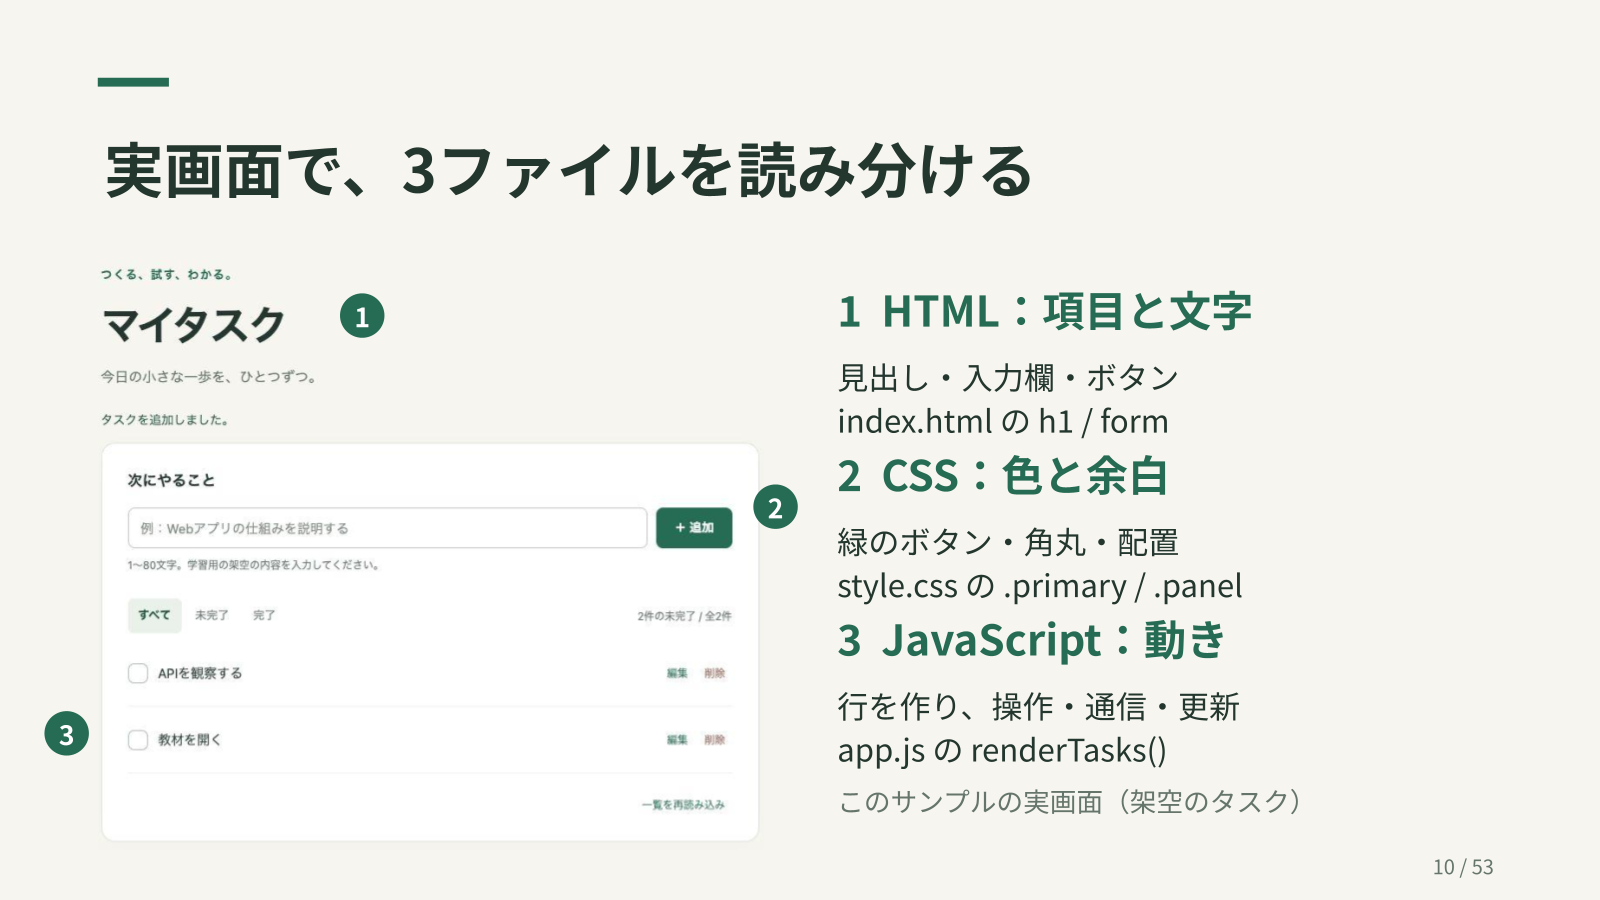
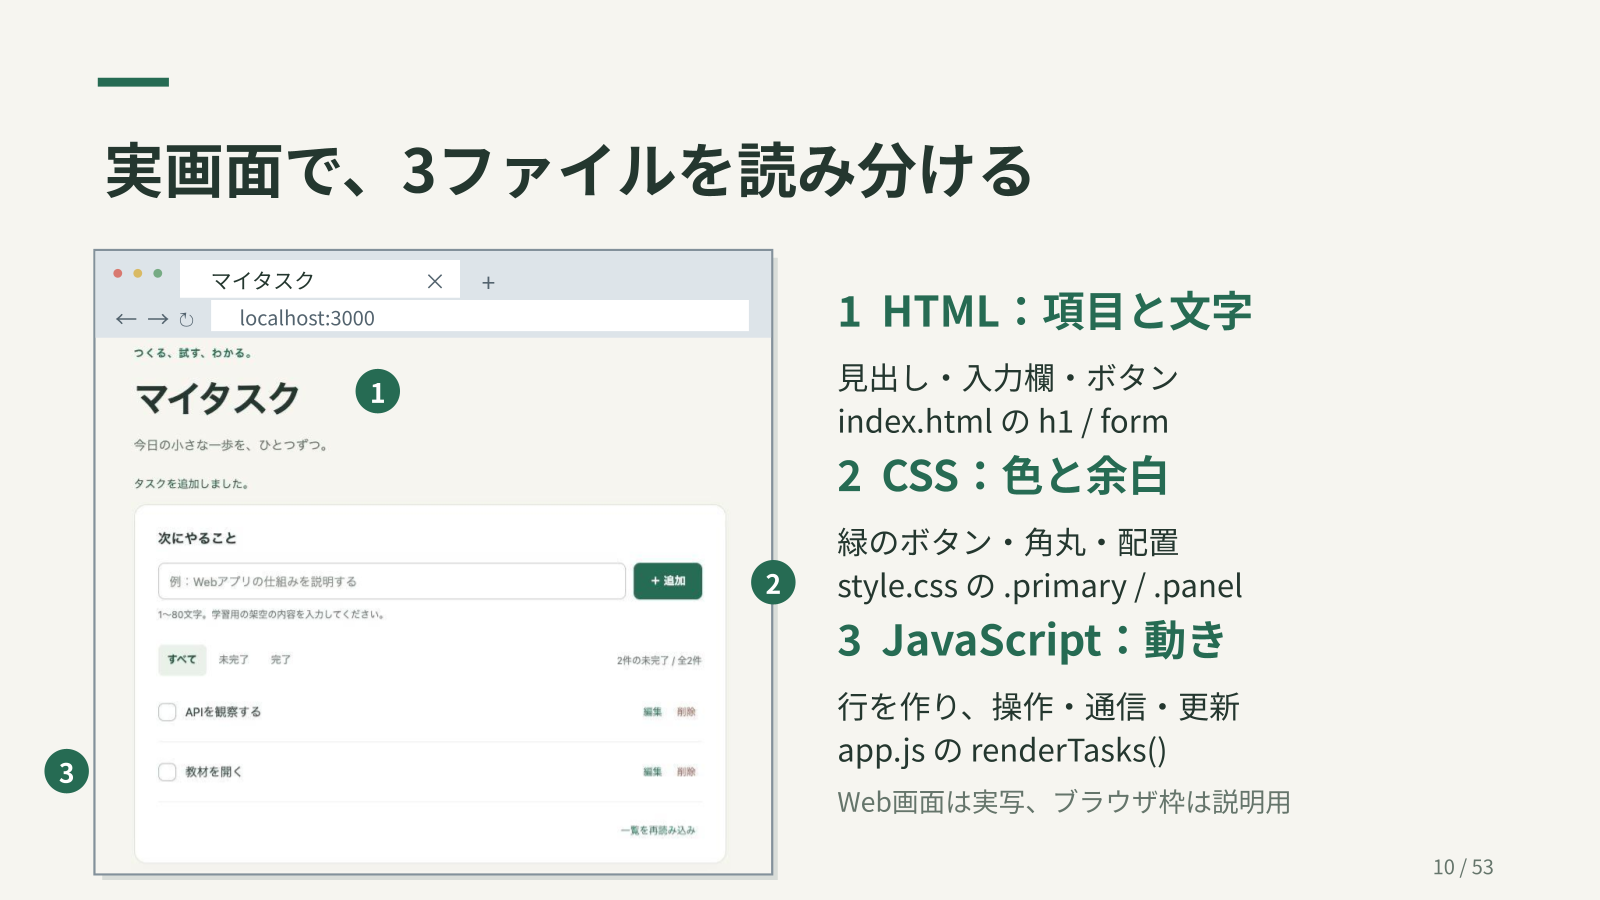
Clarify the browser boundary in the three-files slide
Add an editable browser frame with a tab and address bar, preserve the screenshot aspect ratio, and sync the lesson image and slide sources.

diff --git a/slides/qa.md b/slides/qa.md
@@ -17,6 +17,12 @@
 
 10枚目の注釈と区切り線の重なりを解消し、番号を操作箇所の外側へ移動。移動時の図形拡大も修正し、元の大きさを保持しました。15枚目の「結び付ける」が不自然に折り返したため「操作を有効に」と短縮。修正対象を再取得して確認し、残る要修正点はありません。
 
+## ブラウザ枠の追記確認
+
+10枚目の実画面に、タブ・アドレスバー・輪郭・影を持つブラウザ枠を追加しました。実画面の画像は縦横比を維持して枠内に収め、番号1〜3を対象に合わせて移動しています。枠とURLは編集可能な図形・テキストで、ブラウザUIそのものの撮影と誤解されないよう説明用の模式図と明記しました。
+
+変更後の10枚目をGoogle Slidesの1600×900プレビューで確認し、画面の境界、タブ名とURL、番号、注釈の切れや重なりに問題がないことを確認しました。残る52枚の内容・順序はこの変更では触れていません。リポジトリの `browser-files.png` と生成コードも同じ状態に更新しています。
+
 ## 自動確認と判断
 
 構造の確認結果はエラー0件、警告1件でした。3枚目の画面見本の `□ APIを観察する` が「箇条書き記号を文字で入力している」と判定されています。アプリの未完了チェックボックスを表した意図的な文字なので、修正不要と判断しました。

diff --git a/slides/speaker-notes.md b/slides/speaker-notes.md
@@ -131,9 +131,9 @@ style.css の .primary / .panel
 3  JavaScript：動き：行を作り、操作・通信・更新
 app.js の renderTasks()
 
-このサンプルの実画面（架空のタスク）
+Web画面は実写、ブラウザ枠は説明用
 
-講師ノート：docs/browser-and-frameworks.mdの2。画面の1はh1、2は追加ボタン、3はタスクのチェック欄。1つのボタンにもHTML・CSS・JSが協力する。見える文字がすべてHTMLに書かれているわけではなく、タスク行や件数はJSが追加・更新する。写真は本リポジトリをローカルで動かして撮影。React／Next.js未使用。
+講師ノート：docs/browser-and-frameworks.mdの2。画面の1はh1、2は追加ボタン、3はタスクのチェック欄。1つのボタンにもHTML・CSS・JSが協力する。見える文字がすべてHTMLに書かれているわけではなく、タスク行や件数はJSが追加・更新する。写真は本リポジトリをローカルで動かして撮影。React／Next.js未使用。 画面の範囲が分かるよう、タブとアドレスバー（localhost:3000）を持つブラウザ枠を図形で追加。Web画面自体は実写、ブラウザ枠は説明用の模式図。
 
 ## 11. チェックを押すと、どこが動く？
 

diff --git a/slides/README.md b/slides/README.md
@@ -21,7 +21,7 @@ Google Slides APIでの直接作成は利用者の指定により採用。本文
 - [deck.json](deck.json)：53枚の内容、図・表の構成、講師用補足を含む原稿。
 - [speaker-notes.md](speaker-notes.md)：授業中に参照する説明と問い。
 - [deployed-architecture.png](deployed-architecture.png)：45枚目の構成図。オフラインでも参照できる画像。
-- [browser-files.png](browser-files.png)：10枚目の実画面と3ファイルの対応図。
+- [browser-files.png](browser-files.png)：10枚目の実画面と3ファイルの対応図。タブ・アドレスバー付きのブラウザ枠で画面の範囲を示しています。
 - [撮影画像](../docs/images/app-before.jpg)：このリポジトリのローカル実行画面。操作前後は `docs/images/task-before.jpg` と `task-after.jpg`。
 - [build-requests.mjs](build-requests.mjs)：原稿からGoogle Slides APIのリクエストを生成する補助コード。APIへの送信は行いません。
 

diff --git a/docs/browser-and-frameworks.md b/docs/browser-and-frameworks.md
@@ -24,7 +24,7 @@ Chrome、Edge、Safari、Firefoxなど、Webの内容を受け取り、画面を
 
 ![実画面の番号1はHTMLの見出し、2はCSSによる緑のボタン、3はJavaScriptで動くチェック欄](../slides/browser-files.png)
 
-[元の実画面を大きく見る](images/app-before.jpg)。番号は説明のためにスライド上で加えています。
+[元の実画面を大きく見る](images/app-before.jpg)。Web画面は実アプリの撮影画像です。画面の範囲が分かるように、タブ・アドレスバーを持つブラウザ枠と番号をスライド上で加えています。枠は説明用の模式図です。
 
 | 画面で指すところ | 担当ファイル・探す文字 | 何を決めるか |
 | --- | --- | --- |
